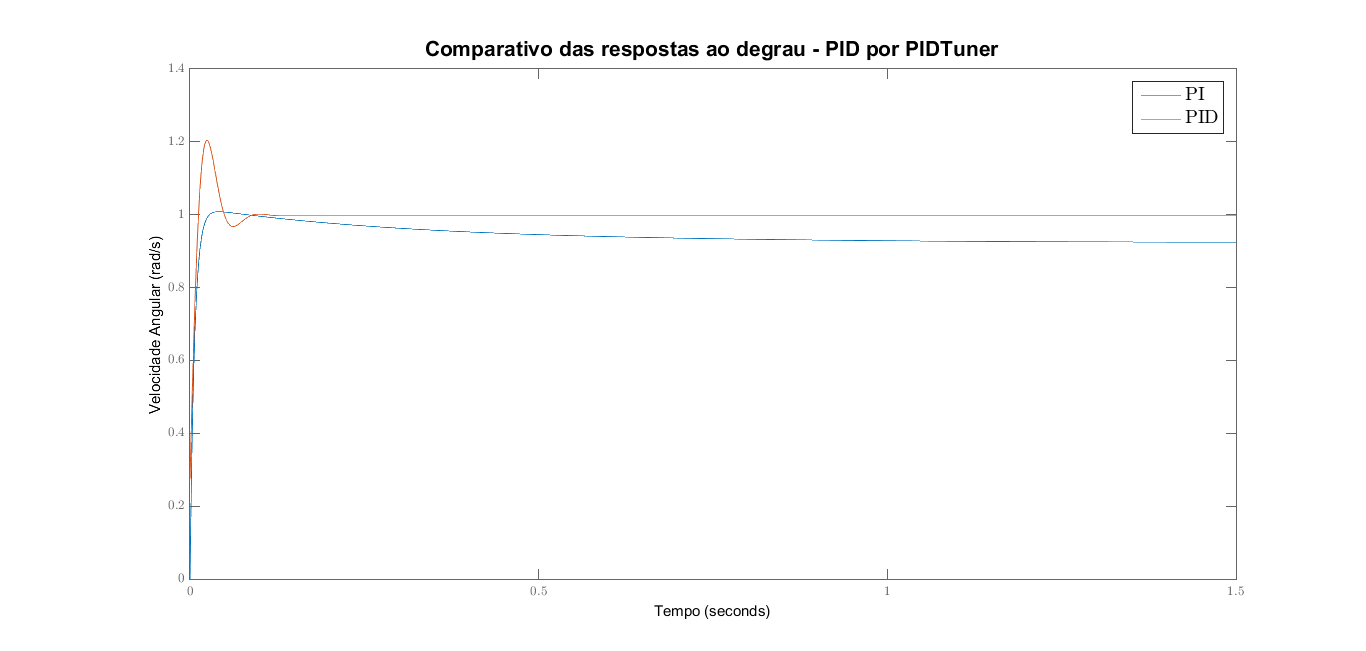
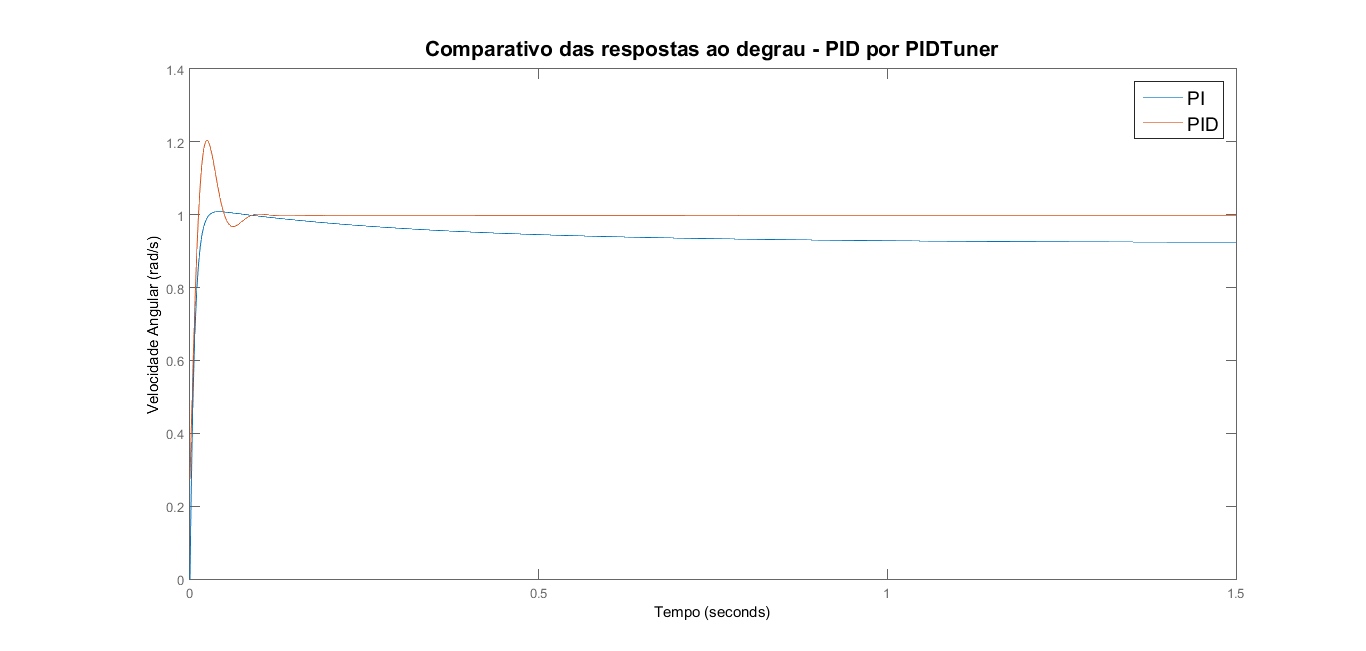
update PIDTuner

diff --git a/PIDTuner.m b/PIDTuner.m
@@ -66,8 +66,9 @@ FTMF_PI = feedback(C_PI*FT_T2_theta2dot,1);
 FTMF_PID = feedback(C_PID*FT_T2_theta2dot,1);
 
 %% Plots
+t=0:0.001:1.5;
 opt = stepDataOptions('StepAmplitude',1);
-stepplot(FTMF_PI,FTMF_PID,opt)
+stepplot(FTMF_PI,FTMF_PID,opt,t)
 title({'Comparativo das respostas ao degrau - PID por PIDTuner'}, 'Fontsize', 16)
 xlabel('Tempo')
 ylabel('Velocidade Angular (rad/s)')
@@ -76,3 +77,9 @@ legend({'PI','PID'}, 'Fontsize', 14)
 %% Parametros do Step
 stepinfo(FTMF_PI)
 stepinfo(FTMF_PID)
+[s1,taux1]=step(FTMF_PI,t);
+RP_PI = abs(1 - s1(end));
+disp(strcat('Erro em RP (PI) = ',num2str(RP_PI)))
+[s2,taux2]=step(FTMF_PID,t);
+RP_PID = abs(1 - s2(end));
+disp(strcat('Erro em RP (PID) = ',num2str(RP_PID)))
